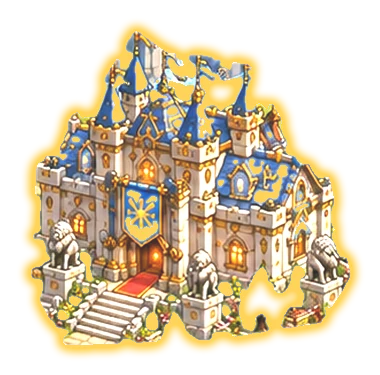
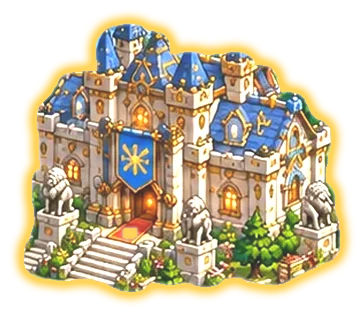
Lobby: building hover areas and glows follow Karoz's drawn outlines; preview page can open the town
Claude-Session: https://claude.ai/code/session_01EHtL1CFKGanEfFGi5Rf8As

diff --git a/lobby/index.html b/lobby/index.html
@@ -182,6 +182,8 @@ button, input { font: inherit; color: inherit; }
 .abtn:disabled { cursor: wait; backdrop-filter: grayscale(.7) brightness(.8); }
 #a-submit { left: 642px; top: 590px; width: 390px; height: 74px; font-size: 36px; --c: 22px; }
 #a-google { left: 614px; top: 722px; width: 442px; height: 54px; font-size: 0; --c: 10px; }
+#a-preview { position: fixed; z-index: 5; left: 50%; top: 12px; transform: translateX(-50%); padding: 8px 18px; border-radius: 999px; border: 2px solid #f0c766;
+  background: rgba(20, 16, 30, .85); color: #ffe39a; font-family: inherit; font-size: 16px; font-weight: 600; cursor: pointer; }
 #a-switch { left: 682px; top: 803px; width: 310px; height: 49px; font-size: 27px; font-weight: 700; --c: 14px; }
 .amsg { left: 600px; top: 668px; width: 472px; height: 46px; display: none; place-items: center; text-align: center; background: linear-gradient(#141c33, #10172b); border-radius: 8px; box-shadow: 0 0 0 1px rgba(233, 195, 108, .4); padding: 0 10px; }
 .amsg.on { display: grid; }
@@ -379,7 +381,7 @@ addEventListener('keydown', e => { if (e.key === 'Escape') for (const m of docum
 
 // ---------- buildings and icons ----------
 // label position in the 1920x1080 town space; HL holds each glow image's box and the building outline (made by hl2.py in the project files)
-const HL = {"farm": {"box": [0, 600, 450, 355], "poly": "36.7% 8.5% 43.3% 11.3% 45.6% 28.2% 57.8% 29.6% 73.3% 42.3% 87.8% 52.1% 93.3% 76.1% 73.3% 88.7% 50.0% 91.5% 21.1% 76.1% 3.3% 69.0% 2.2% 45.1% 12.2% 25.4% 26.7% 16.9%"}, "tower": {"box": [315, 0, 233, 382], "poly": "49.4% 0.0% 63.1% 7.9% 73.8% 16.2% 81.5% 31.4% 84.5% 65.4% 87.1% 78.5% 79.4% 92.1% 36.5% 92.1% 18.5% 78.5% 12.9% 66.8% 12.9% 31.4% 24.5% 16.2% 36.5% 7.9%"}, "wedding": {"box": [480, 202, 345, 346], "poly": "50.7% 13.3% 63.8% 8.7% 73.9% 25.4% 84.6% 45.7% 91.3% 71.7% 91.3% 89.6% 69.6% 91.3% 31.9% 84.7% 8.7% 75.1% 10.1% 57.2% 23.2% 32.7% 34.8% 22.5%"}, "stadium": {"box": [792, 185, 373, 337], "poly": "14.2% 29.7% 26.3% 22.8% 42.4% 17.8% 51.7% 8.9% 55.8% 16.3% 69.2% 18.7% 82.6% 24.6% 91.2% 34.1% 92.0% 63.8% 78.6% 77.2% 72.4% 91.1% 41.8% 91.1% 26.8% 79.2% 8.8% 66.2% 8.0% 38.6%"}, "guild": {"box": [1135, 173, 380, 375], "poly": "35.5% 8.0% 43.4% 13.9% 52.6% 14.7% 65.8% 17.3% 75.0% 33.9% 86.1% 45.9% 92.1% 73.9% 84.2% 85.9% 56.6% 90.4% 17.1% 92.0% 7.9% 75.2% 9.7% 43.2% 19.7% 29.9% 27.6% 20.5%"}, "dungeon": {"box": [1548, 125, 367, 360], "poly": "38.7% 11.1% 56.4% 15.3% 74.1% 8.3% 88.3% 24.2% 91.8% 48.6% 91.0% 81.9% 65.9% 91.7% 25.1% 91.7% 8.2% 62.5% 15.0% 31.9% 30.5% 13.1%"}, "smith": {"box": [40, 383, 522, 289], "poly": "34.5% 10.4% 44.4% 12.1% 51.7% 13.8% 58.4% 19.7% 69.0% 26.6% 85.2% 30.1% 94.3% 49.1% 94.3% 72.3% 69.0% 89.6% 43.1% 86.2% 5.7% 75.8% 7.3% 43.9% 14.4% 32.9% 24.9% 19.7%"}, "brewery": {"box": [1243, 485, 445, 267], "poly": "20.7% 13.9% 33.0% 20.6% 61.1% 11.2% 69.4% 12.4% 78.4% 34.8% 91.9% 53.6% 93.3% 80.5% 69.0% 88.8% 38.7% 87.3% 6.7% 73.8% 11.0% 30.0%"}, "fame": {"box": [1618, 408, 302, 424], "poly": "39.7% 7.1% 78.5% 9.4% 71.9% 26.4% 75.2% 40.6% 76.8% 59.4% 95.0% 58.3% 99.3% 78.3% 80.1% 90.6% 27.2% 92.9% 9.9% 78.3% 16.6% 59.0% 33.1% 45.3% 38.7% 32.3%"}, "auction": {"box": [438, 588, 524, 354], "poly": "52.9% 8.5% 67.2% 25.4% 78.6% 36.7% 94.3% 53.7% 88.5% 77.4% 74.8% 91.5% 21.4% 91.5% 5.7% 77.4% 5.7% 55.6% 25.2% 37.9% 42.4% 28.2%"}, "shop": {"box": [960, 673, 582, 319], "poly": "52.4% 9.4% 68.7% 23.5% 80.8% 44.5% 91.4% 54.9% 94.8% 88.4% 51.5% 90.6% 5.2% 89.0% 8.2% 61.8% 15.1% 42.3% 35.7% 21.9%"}};
+const HL = {"farm": {"box": [0, 617, 452, 329], "poly": "0.0% 53.5% 0.0% 62.6% 7.3% 68.4% 23.0% 75.1% 28.3% 79.6% 35.6% 83.0% 41.4% 88.1% 54.4% 92.7% 63.3% 91.5% 73.7% 84.2% 77.7% 84.2% 80.3% 86.6% 82.5% 86.6% 90.7% 81.2% 91.4% 75.4% 94.7% 71.7% 94.2% 66.6% 89.2% 63.2% 88.5% 54.4% 86.7% 48.6% 84.7% 48.6% 80.3% 44.7% 68.6% 40.7% 66.2% 37.1% 60.6% 35.0% 54.4% 29.2% 51.5% 29.2% 48.0% 36.2% 46.0% 36.2% 43.4% 31.9% 36.1% 27.7% 35.8% 24.0% 42.7% 14.0% 42.7% 10.6% 39.6% 7.3% 36.7% 7.6% 34.3% 15.5% 31.2% 21.3% 25.4% 21.0% 19.5% 14.3% 16.2% 14.3% 14.6% 22.8% 20.6% 28.3% 18.8% 48.0% 16.6% 48.3% 16.2% 45.6% 9.7% 46.8% 9.5% 42.6% 7.3% 42.6% 6.2% 44.1% 5.8% 51.1% 3.3% 53.5%"}, "tower": {"box": [226, 0, 355, 437], "poly": "59.2% 2.1% 56.3% 2.1% 51.3% 7.8% 48.2% 7.8% 48.7% 22.0% 45.9% 22.2% 44.2% 19.7% 41.4% 19.7% 39.7% 22.2% 40.8% 30.0% 35.2% 30.2% 35.8% 41.0% 38.0% 46.7% 41.7% 46.9% 43.7% 49.0% 42.5% 52.6% 37.2% 53.3% 35.5% 55.8% 35.8% 62.0% 32.1% 65.4% 29.9% 65.4% 29.9% 60.0% 25.9% 59.7% 25.4% 64.8% 20.8% 68.9% 14.9% 69.3% 13.0% 68.2% 8.5% 68.0% 6.8% 69.1% 7.3% 78.9% 8.5% 80.5% 26.8% 86.3% 30.7% 86.5% 35.8% 89.2% 44.8% 90.4% 48.7% 92.0% 50.7% 94.5% 54.6% 94.3% 57.2% 91.3% 63.7% 91.1% 71.3% 88.1% 83.4% 85.8% 83.7% 80.3% 87.6% 77.8% 91.8% 77.8% 93.2% 74.1% 93.2% 69.6% 87.9% 66.6% 88.5% 60.4% 83.9% 60.4% 84.2% 65.2% 81.7% 65.4% 77.5% 62.0% 77.2% 58.1% 75.2% 56.3% 74.6% 53.3% 69.6% 53.1% 71.0% 46.7% 78.6% 46.5% 80.0% 29.1% 74.4% 28.8% 73.5% 20.1% 70.7% 20.1% 69.9% 22.4% 66.8% 22.2% 66.2% 14.4% 67.3% 13.5% 67.3% 7.6% 64.2% 7.1%"}, "wedding": {"box": [451, 232, 395, 361], "poly": "38.0% 6.6% 36.2% 21.6% 34.2% 23.8% 31.4% 23.8% 30.9% 29.4% 27.8% 29.6% 25.3% 33.0% 20.3% 33.8% 19.7% 44.6% 17.7% 44.9% 15.4% 47.6% 16.5% 54.3% 14.9% 56.0% 11.4% 56.0% 6.1% 62.3% 6.1% 65.1% 8.9% 66.8% 8.9% 70.6% 14.7% 73.4% 19.5% 73.4% 20.0% 76.2% 29.6% 79.8% 35.7% 84.5% 44.1% 88.6% 47.3% 88.6% 57.5% 83.9% 67.1% 83.1% 77.2% 93.1% 81.3% 93.4% 86.8% 91.4% 88.1% 90.0% 88.1% 86.1% 83.8% 80.6% 83.8% 77.3% 92.4% 74.2% 93.7% 70.9% 93.9% 60.9% 93.2% 59.6% 88.1% 59.0% 85.8% 50.4% 83.8% 47.1% 83.0% 41.3% 77.7% 39.9% 77.2% 26.9% 73.9% 26.6% 73.7% 23.8% 70.6% 23.5% 72.2% 16.3% 67.8% 15.5% 66.3% 13.3% 66.1% 8.3% 63.5% 8.3% 63.3% 10.0% 60.8% 10.0% 60.0% 12.5% 57.0% 12.5% 59.0% 23.5% 56.2% 23.8% 54.7% 19.9% 52.2% 19.9% 51.9% 18.0% 41.0% 19.1% 40.8% 11.6% 43.3% 11.1% 43.5% 7.5%"}, "stadium": {"box": [772, 204, 381, 313], "poly": "8.1% 24.6% 8.1% 41.2% 10.0% 50.8% 8.9% 62.9% 6.3% 63.6% 6.3% 66.8% 8.7% 74.8% 12.1% 74.8% 14.7% 77.3% 15.2% 84.0% 30.4% 92.0% 67.5% 92.0% 76.1% 88.8% 81.6% 83.4% 87.9% 80.8% 93.7% 74.4% 91.3% 52.4% 89.8% 47.9% 86.1% 47.6% 86.4% 40.3% 87.9% 39.6% 88.2% 36.7% 91.3% 36.4% 91.1% 30.0% 89.0% 29.1% 87.9% 20.4% 85.0% 20.4% 84.5% 23.6% 82.2% 24.0% 77.4% 19.5% 76.6% 10.9% 74.0% 10.9% 71.7% 18.2% 69.3% 18.5% 66.7% 16.6% 55.1% 15.3% 53.8% 13.1% 53.8% 8.6% 50.7% 8.0% 48.6% 15.3% 43.0% 16.6% 37.8% 15.7% 36.7% 7.7% 33.9% 7.7% 32.8% 17.3% 23.4% 18.5% 22.3% 13.4% 19.4% 13.4% 17.8% 23.0% 15.0% 24.9%"}, "guild": {"box": [1141, 227, 363, 315], "poly": "10.7% 33.7% 11.0% 53.3% 8.8% 56.5% 9.4% 71.1% 6.6% 78.7% 6.9% 84.8% 10.2% 87.9% 25.3% 88.3% 34.4% 92.4% 38.6% 92.1% 41.3% 89.5% 57.9% 90.8% 63.1% 87.9% 76.6% 90.2% 91.5% 82.2% 93.1% 80.0% 92.0% 61.6% 89.5% 57.8% 90.6% 40.6% 85.4% 35.9% 82.6% 30.2% 76.9% 28.6% 74.7% 21.6% 70.2% 20.6% 67.2% 16.8% 46.8% 17.1% 46.3% 12.7% 43.8% 10.2% 36.9% 7.6% 31.1% 8.3% 26.7% 12.7% 26.7% 22.2% 17.4% 23.8%"}, "dungeon": {"box": [1510, 120, 410, 366], "poly": "99.8% 32.0% 98.5% 31.7% 95.9% 27.0% 91.5% 27.0% 89.3% 25.7% 82.4% 15.8% 79.8% 15.8% 79.5% 16.9% 74.6% 15.8% 65.6% 6.6% 62.9% 6.6% 61.2% 12.6% 54.9% 11.5% 53.4% 9.3% 49.3% 9.8% 44.9% 17.5% 44.4% 20.8% 42.4% 20.8% 40.0% 15.8% 37.3% 15.8% 35.6% 20.8% 33.7% 22.4% 32.2% 28.1% 30.0% 27.9% 30.0% 22.1% 27.1% 22.7% 22.9% 46.4% 19.3% 52.7% 17.6% 58.7% 12.9% 60.7% 11.0% 65.8% 6.1% 65.8% 6.1% 77.6% 15.9% 79.2% 20.0% 82.8% 23.7% 83.3% 24.6% 87.2% 27.6% 89.6% 32.7% 91.3% 38.5% 91.3% 40.2% 89.6% 54.4% 92.1% 54.6% 86.1% 56.8% 86.1% 62.7% 92.9% 72.9% 93.4% 80.5% 88.3% 86.3% 89.6% 90.2% 84.7% 94.4% 83.9% 97.8% 80.6% 99.8% 80.3%"}, "smith": {"box": [24, 387, 566, 316], "poly": "4.2% 57.6% 4.6% 64.9% 6.7% 68.4% 19.6% 75.3% 22.3% 78.2% 27.0% 76.9% 31.4% 84.2% 43.8% 92.4% 52.7% 90.2% 62.7% 83.2% 73.7% 79.4% 85.7% 70.6% 92.9% 68.0% 95.8% 64.2% 95.6% 60.1% 92.8% 57.3% 92.2% 55.1% 87.8% 50.3% 87.6% 48.7% 83.9% 48.7% 80.2% 42.1% 79.3% 27.5% 72.8% 22.8% 59.4% 17.1% 59.0% 20.6% 60.8% 24.1% 60.6% 27.8% 53.0% 30.1% 50.7% 22.2% 45.9% 22.8% 44.2% 20.3% 43.6% 11.7% 42.8% 9.8% 39.2% 7.6% 33.4% 9.2% 33.2% 17.4% 27.9% 16.1% 25.4% 17.1% 24.9% 23.4% 22.3% 27.5% 22.1% 33.2% 19.8% 32.9% 19.8% 28.8% 15.4% 28.8% 14.3% 34.2% 11.3% 38.3% 12.0% 43.7% 11.3% 53.2% 7.6% 52.8%"}, "brewery": {"box": [1235, 494, 456, 285], "poly": "94.7% 70.2% 93.9% 50.5% 82.5% 37.9% 78.9% 28.1% 73.2% 26.7% 71.1% 19.6% 71.7% 10.5% 68.4% 8.4% 60.3% 9.8% 60.1% 15.8% 51.5% 11.9% 50.4% 16.1% 47.8% 18.9% 45.2% 18.6% 42.5% 15.4% 23.9% 13.3% 14.9% 26.3% 14.7% 35.4% 16.2% 48.1% 14.7% 49.8% 10.5% 49.8% 10.1% 52.6% 7.2% 54.0% 5.3% 57.2% 5.3% 61.8% 16.7% 63.5% 28.3% 74.7% 32.2% 75.8% 55.9% 91.6% 60.1% 90.5% 62.9% 87.4% 72.6% 82.5% 80.5% 80.7%"}, "fame": {"box": [1550, 485, 370, 431], "poly": "62.7% 5.6% 62.7% 10.4% 59.2% 11.1% 57.8% 15.1% 55.1% 15.5% 53.0% 21.3% 48.1% 22.3% 46.2% 23.9% 45.7% 32.0% 47.8% 45.2% 47.0% 52.2% 45.4% 53.1% 41.4% 52.7% 41.6% 46.6% 40.0% 44.5% 40.0% 41.3% 39.2% 40.4% 35.7% 40.4% 33.5% 43.4% 33.2% 54.8% 28.6% 57.5% 19.5% 59.9% 12.2% 63.3% 8.4% 63.6% 6.5% 65.7% 6.5% 69.4% 7.8% 73.5% 23.8% 80.5% 34.6% 82.8% 35.9% 85.2% 47.6% 88.9% 53.8% 92.1% 64.3% 94.4% 77.0% 94.4% 84.1% 90.5% 91.1% 88.9% 95.4% 84.7% 99.7% 83.5% 99.7% 61.3% 97.6% 60.8% 94.6% 56.8% 93.8% 45.5% 90.3% 42.0% 87.0% 42.5% 86.8% 52.9% 85.9% 54.8% 83.5% 54.5% 82.2% 47.8% 83.8% 46.2% 83.8% 43.9% 82.2% 43.2% 82.4% 28.5% 77.8% 28.3% 79.2% 17.9% 74.6% 17.6% 73.0% 16.2% 72.4% 13.2% 69.7% 12.8% 69.5% 7.9% 67.6% 7.9% 66.2% 5.6%"}, "auction": {"box": [453, 668, 511, 309], "poly": "95.3% 34.3% 89.0% 32.0% 84.5% 27.5% 82.2% 26.9% 82.4% 19.1% 78.5% 18.1% 75.0% 19.4% 74.6% 13.3% 72.4% 13.3% 71.4% 14.6% 71.2% 17.8% 68.9% 18.1% 68.1% 11.3% 59.3% 13.3% 57.1% 10.4% 57.1% 8.4% 53.0% 7.8% 53.0% 9.7% 50.3% 11.7% 47.2% 19.7% 42.1% 20.4% 40.3% 19.1% 38.9% 15.5% 38.7% 8.4% 34.6% 8.1% 33.9% 12.3% 29.7% 15.9% 29.0% 22.3% 31.7% 22.7% 32.9% 35.0% 31.1% 35.0% 30.9% 33.7% 25.4% 35.0% 25.2% 32.0% 23.5% 31.4% 23.5% 26.2% 21.7% 26.2% 21.3% 23.6% 19.4% 23.6% 18.2% 28.5% 15.5% 28.8% 14.5% 30.7% 13.9% 36.9% 4.7% 36.6% 5.1% 42.1% 8.4% 42.4% 7.6% 71.5% 9.4% 73.1% 14.3% 73.5% 20.4% 79.0% 26.4% 77.3% 29.0% 80.9% 35.2% 81.2% 37.8% 82.8% 38.9% 85.4% 44.6% 89.3% 55.2% 92.2% 59.9% 88.0% 62.0% 87.7% 63.6% 84.5% 66.1% 83.8% 66.3% 79.0% 65.0% 78.6% 65.0% 76.1% 61.3% 70.6% 61.3% 68.0% 59.3% 68.0% 59.1% 66.0% 54.0% 61.8% 54.0% 58.6% 61.6% 58.9% 61.8% 61.5% 65.6% 63.8% 67.1% 67.6% 71.6% 72.2% 72.8% 77.7% 81.4% 79.3% 91.2% 74.4% 94.1% 66.3% 94.1% 63.1% 92.4% 58.3% 92.4% 51.1% 94.1% 48.9%"}, "shop": {"box": [994, 694, 544, 333], "poly": "4.4% 67.6% 4.6% 75.1% 10.7% 75.4% 11.9% 76.6% 12.3% 80.5% 16.7% 81.4% 21.3% 85.0% 24.1% 85.0% 27.4% 80.8% 29.0% 80.8% 30.0% 88.3% 36.9% 90.1% 42.1% 89.8% 42.5% 88.3% 58.8% 88.9% 61.0% 90.1% 62.1% 92.8% 70.8% 91.0% 72.8% 87.4% 73.2% 80.8% 76.3% 82.6% 79.2% 82.3% 81.4% 79.3% 85.7% 76.6% 86.6% 74.5% 90.1% 74.5% 92.3% 72.4% 94.9% 72.4% 95.6% 70.6% 95.4% 64.3% 94.1% 64.0% 93.9% 61.3% 91.9% 59.2% 91.4% 50.8% 89.7% 50.8% 87.7% 47.1% 83.3% 48.0% 82.9% 45.0% 81.6% 44.7% 81.6% 40.5% 77.6% 40.2% 77.0% 39.0% 72.8% 40.5% 72.6% 39.0% 69.9% 39.0% 69.7% 42.9% 66.7% 42.9% 66.0% 37.5% 61.9% 38.7% 62.5% 24.3% 67.1% 24.3% 68.4% 21.0% 68.2% 15.6% 60.1% 16.2% 59.9% 10.5% 58.1% 7.5% 56.1% 7.5% 55.5% 9.9% 50.7% 9.6% 50.6% 7.2% 45.0% 8.7% 43.2% 12.0% 39.5% 11.1% 38.6% 16.2% 32.0% 16.5% 31.2% 19.8% 27.2% 24.6% 23.0% 24.0% 22.1% 33.0% 18.9% 33.0% 17.5% 29.1% 15.4% 29.1% 15.4% 36.6% 10.1% 39.0% 10.5% 49.2% 9.2% 52.0% 9.2% 55.9% 6.2% 56.2% 6.2% 64.3%"}};
 const SOON = 'เร็วๆ นี้';
 const BUILDINGS = [
   { k: 'tower', desc: 'สู้กับบอทระดับยาก ทดสอบฝีมือการเล็งและอ่านลมของคุณ', name: 'Endless Tower', th: 'หอคอยไร้สิ้นสุด', at: [425, 252], act: () => botModal('tower') },
@@ -878,7 +880,18 @@ function enterTown(session) {
   $('auth').hidden = true;
   startChat();
 }
+// the Claude preview page cannot sign in (Google and Supabase only accept the real site), so it gets a button to look at the town
+const PREVIEW = !/(^|\.)github\.io$|^localhost$|^127\.0\.0\.1$/.test(location.hostname);
+function previewTown() {
+  entered = true; $('auth').hidden = true;
+  prof.name = prof.name || 'ผู้ชม'; renderProf();
+  chatState('หน้าตัวอย่าง แชทใช้ได้เฉพาะบนเว็บจริง', false);
+}
 async function boot() {
+  if (PREVIEW) {
+    const b = document.createElement('button'); b.type = 'button'; b.id = 'a-preview'; b.textContent = 'ดูเมือง (หน้าตัวอย่าง ไม่ต้องล็อกอิน)';
+    b.onclick = previewTown; $('auth').appendChild(b);
+  }
   if (!window.supabase) { $('auth').hidden = false; aMsg('โหลดระบบล็อกอินไม่ได้ ลองรีเฟรชหน้า'); chatState('โหลดระบบแชทไม่ได้', false); return; }
   const sb = online.sb = window.supabase.createClient(SB_URL, SB_KEY, { auth: { persistSession: true, autoRefreshToken: true, detectSessionInUrl: true, storageKey: 'sky-lobby-auth', storage: authStore } });
   sb.auth.onAuthStateChange((ev, session) => {
